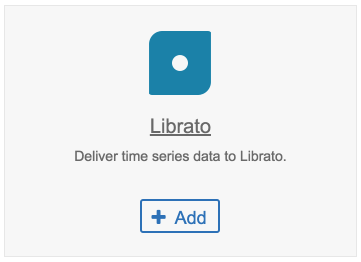
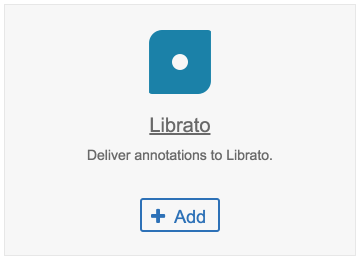
Integration Fixes

diff --git a/worker/integrations/webhooks/index.md b/worker/integrations/webhooks/index.md
@@ -6,15 +6,15 @@ breadcrumbs:
   - ['Integrations', '/integrations']
 ---
 
-Webhooks are used with IronWorker to trigger a worker based on an event. This guide is specific to the webhook generated by IronWorker when a task errors so you can be notified or trigger a responsive action.
+Webhooks are used with IronWorker to trigger a worker based on an event. This guide is specific to the webhook generated by IronWorker when a task changes state (complete, error, timeout, cancelled) so you can be notified and trigger a responsive action.
 
 <h2 id="start">Getting Started</h2>
-To use the Webhook integration, you'll need an endpoint where the webhook can POST. A great tool for testing HTTP endpoints is <a href="http://requestb.in/">requestb.in</a>. Select 'Create a Request Bin' to generate a temporary webhook uri. You'll need this link for the Iron.io HUD.
+To use the Webhook integration, you'll need an endpoint for the webhook to deliver a request. A great tool for testing HTTP endpoints is <a href="http://requestb.in/">requestb.in</a>. Select 'Create a Request Bin' to generate a temporary webhook uri. You'll need this link for the Iron.io HUD.
 
 <img src="/images/worker/integrations/webhooks_uri.png" alt="Webhook URI">
 
 <h2 id="uri">Enter Webhook URI</h2>
-With your webhook URI, head over to the Iron.io HUD. Navigate to your Profile and select the Integrations menu. Select the 'Add' button for Webhooks and copy the link in the field. Selecting 'Activate' will associate the uri.
+With your webhook uri, head over to the Iron.io HUD. Navigate to your Profile and select the Integrations menu. Select the 'Add' button for Webhooks and copy the link in the field. Selecting 'Activate' will associate the uri.
 
 <img src="/images/worker/integrations/webhooks_auth1.png" alt="Webhooks">
 <img src="/images/worker/integrations/webhooks_auth2.png" alt="Webhooks Auth">
@@ -27,6 +27,6 @@ Once you have associated the webhook uri with Iron.io, you can activate the inte
 <img src="/images/worker/integrations/webhooks_activation2.png" alt="Webhooks Activation">
 
 <h2 id="Test">Test the Integration</h2>
-With the webhook uri associated and activated, IronWorker tasks that error will trigger the webhook. To test, write, upload, and run a simple task that you know will generate an error. Once complete, refresh the Request Bin url to inspect the worker webhook.
+With the webhook uri associated and activated, any IronWorker task state change will trigger the webhook. To test, write, upload, and run a simple task. Once complete, refresh the Request Bin url to inspect the request.
 
 <img src="/images/worker/integrations/webhooks_requestbin.png" alt="Webhooks Request Bin">

diff --git a/worker/integrations/librato/index.md b/worker/integrations/librato/index.md
@@ -13,12 +13,12 @@ Librato has been integrated with IronWorker to deliver task state metrics for bu
 <h2 id="start">Getting Started</h2>
 If you haven't already, <a href="https://metrics.librato.com/sign_up">sign up</a> for a Librato account today. They offer a 30 day free trial of the service.
 
-Once you have your Librato account, go to your Account Settings to get your API Key. You'll need this and the email address you signed up with for the Iron.io HUD.
+Once you have your Librato account, go to your Account Settings to get your API Token. You'll need this and the email address you signed up with for the Iron.io HUD.
 
 <img src="/images/worker/integrations/librato_token.png" alt="Librato API Key">
 
 <h2 id="auth">Authenticate With Librato</h2>
-With your Librato API Key and account email address, head over to the Iron.io HUD. Navigate to your Profile and select the Integrations menu. Select the 'Add' button for Librato and copy your email address and the Project API Key in the field. Selecting 'Activate' will authenticate Librato with Iron.io.
+With your Librato API Token and account email address, head over to the Iron.io HUD. Navigate to your Profile and select the Integrations menu. Select the 'Add' button for Librato and copy your email address and the API Token in the field. Selecting 'Activate' will authenticate Librato with Iron.io.
 
 <img src="/images/worker/integrations/librato_auth1.png" alt="Librato Auth">
 <img src="/images/worker/integrations/librato_auth2.png" alt="Librato Auth">
@@ -31,7 +31,7 @@ Once you have authenticated with Librato, you can activate the integration for a
 <img src="/images/worker/integrations/librato_activation2.png" alt="Librato Activation">
 
 <h2 id="Test">Test the Integration</h2>
-With Librato authenticated and activated, IronWorker tasks will deliver metrics to Librato as Annotations. Create and name an Instrument for collecting metrics. The Annotation will be in the format InstrumentName.WorkerName.
+With Librato authenticated and activated, IronWorker tasks will deliver metrics to Librato as Annotations. Create and name an Instrument for collecting metrics. The Annotation will be in the format IronWorker.WorkerName, with the Source as the task status (Error, Timeout, Cancelled).
 
 To test, write, upload, and run a simple task that you know will generate an error. Once complete, you will see the error in your Librato Instrument. Once you begin collecting more metrics, you can build custom Dashboards to your liking.
 

diff --git a/worker/integrations/airbrake/index.md b/worker/integrations/airbrake/index.md
@@ -31,7 +31,7 @@ Once you have authenticated with Airbrake, you can activate the integration for 
 <img src="/images/worker/integrations/airbrake_activation2.png" alt="Airbrake Activation">
 
 <h2 id="Test">Test the Integration</h2>
-With Airbrake authenticated and activated, any IronWorker tasks that errors will deliver the data to Airbrake and create an Unresolved Error. To test, write, upload, and run a simple task that you know will generate an error. Once complete, you will see the error in your Airbrake dashboard and can take further action.
+With Airbrake authenticated and activated, any IronWorker tasks that errors or timeouts will deliver the data to Airbrake and create an Unresolved Error. To test, write, upload, and run a simple task that you know will generate an error. Once complete, you will see the error in your Airbrake dashboard and can take further action.
 
 <img src="/images/worker/integrations/airbrake_exception.png" alt="Airbrake Exception">
 
